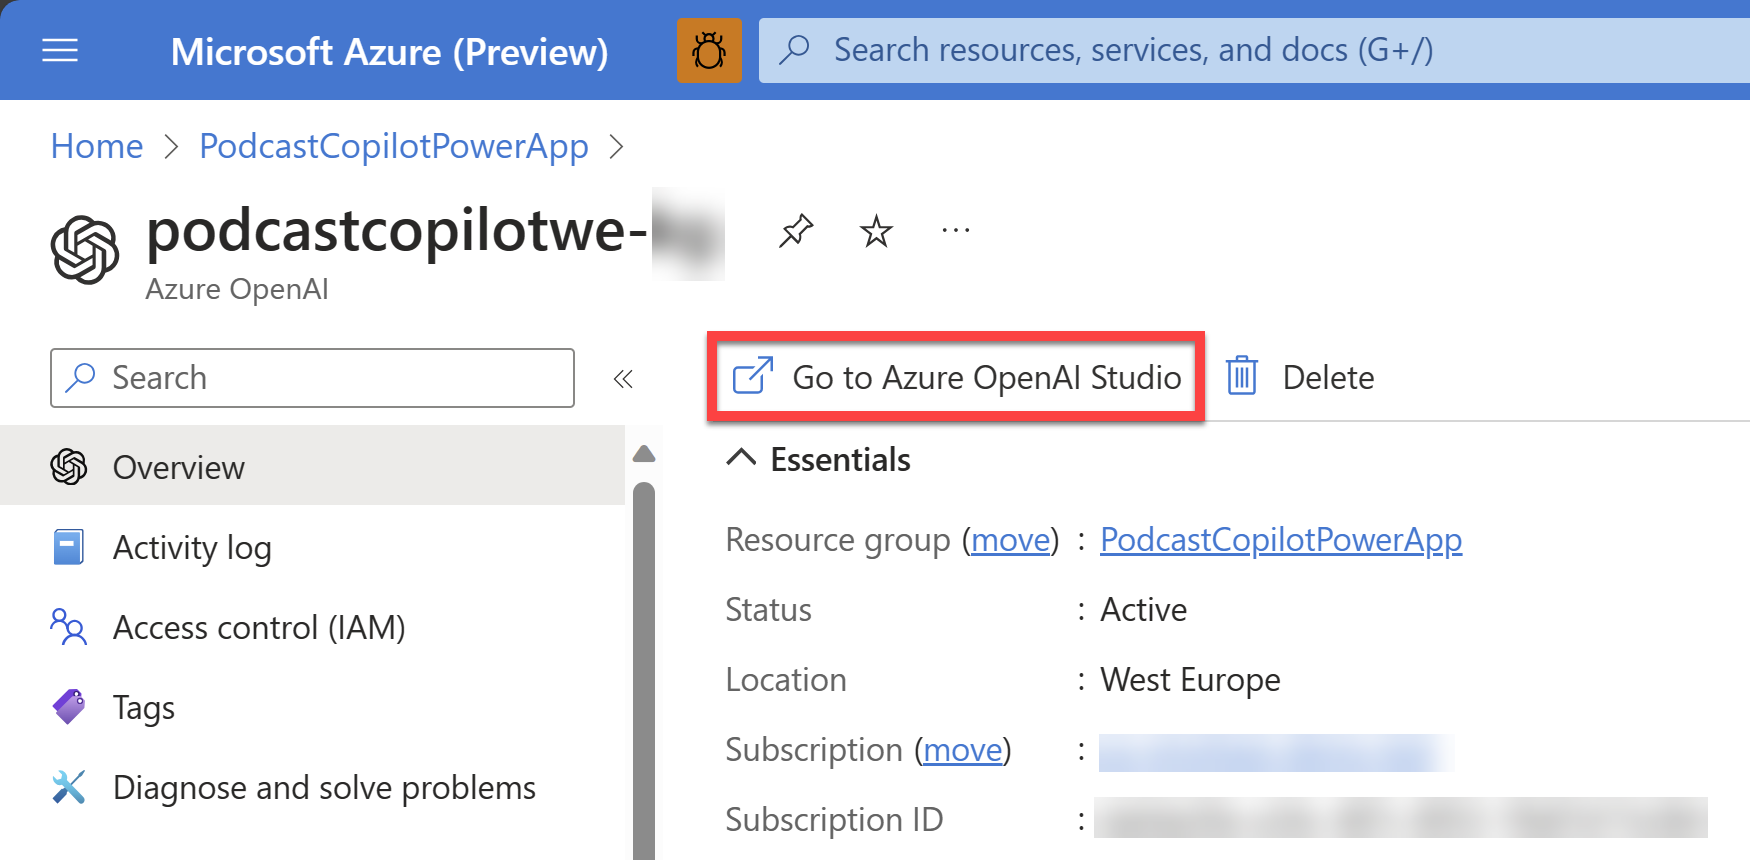
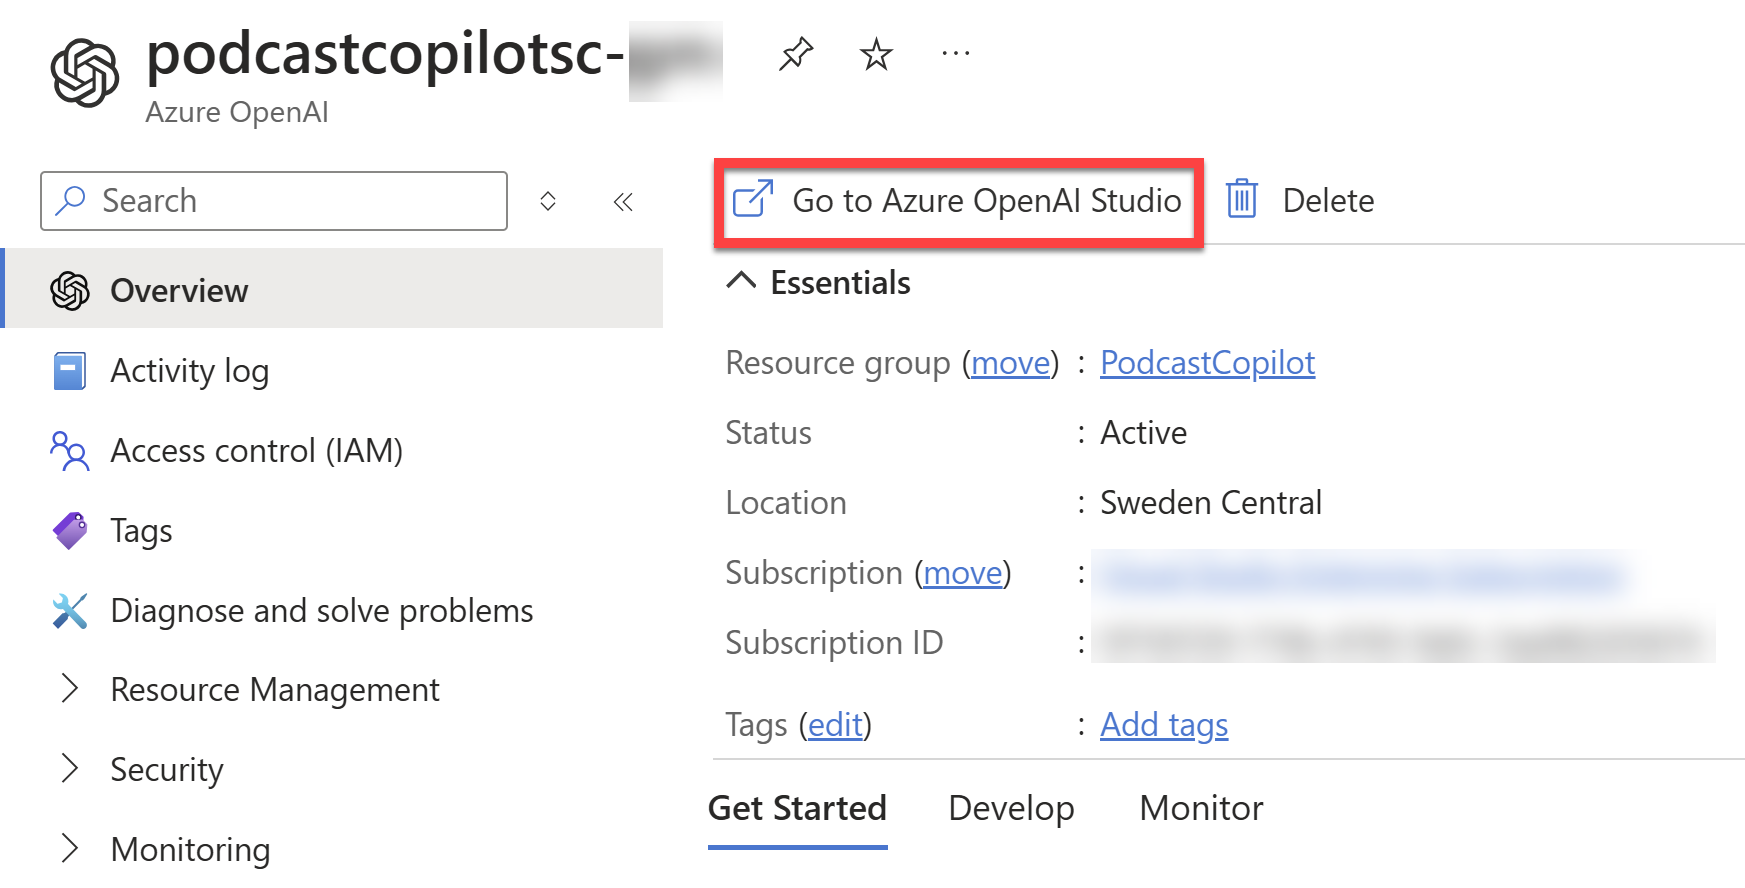
Lab1 - Updated

diff --git a/Workshops/PodcastCopilotPowerApp/Lab1/README.md b/Workshops/PodcastCopilotPowerApp/Lab1/README.md
@@ -17,7 +17,6 @@ Learn More: [What is Azure OpenAI Service? [Microsoft Learn]](https://aka.ms/Pow
 For this lab, make sure you have the following ready:
 
 - An active [Azure Subscription](https://azure.microsoft.com/en-us/free/)
-- Access to [Azure OpenAI Service](https://azure.microsoft.com/en-us/services/openai/)
 
 ### Video Overview of Lab:
 
@@ -27,7 +26,7 @@ For this lab, make sure you have the following ready:
 
 ## Instructions
 
-### Creating the Azure OpenAI Service Resources
+### Create an Azure OpenAI Service Resource
 
 1. Go to [portal.azure.com](https://aka.ms/PowerPodcast/AzurePortal) and login with your Azure account.
 
@@ -37,133 +36,123 @@ For this lab, make sure you have the following ready:
 
     ![Create Resource Group](assets/create-resource-group.png)
 
-1. Name it `PodcastCopilotPowerApp` and click on **Review + Create**. Then click on **Create**.
+1. Name it `PodcastCopilot` and click on **Review + Create**. Then click on **Create**.
 
-1. Create a new Azure OpenAI Service resource by clicking [here](https://ms.portal.azure.com/#create/Microsoft.CognitiveServicesOpenAI) and set the following parameters:
+1. Create a new **Azure OpenAI Service** resource by clicking [here](https://ms.portal.azure.com/#create/Microsoft.CognitiveServicesOpenAI) and set the following parameters:
 
-    - **Name**: `podcastcopilotwe-{your initials}` (e.g. `podcastcopilotwe-jd` to make it unique)
     - **Subscription**: Select your Azure subscription
-    - **Resource Group**: Select the resource group you created in the previous step
-    - **Location**: `West Europe`
+    - **Resource Group**: Select the **PodcastCopilot** resource group you created in the previous step
+    - **Region**: `Sweden Central`
+    - **Name**: `podcastcopilotsc-{your initials}` (e.g. `podcastcopilotwe-jd` to make it unique)
     - **Pricing Tier**: Select the `Standard S0` pricing tier
-
-    This resource will be used to access the Whisper and GPT-3.5 models.
 
     ![Create Azure OpenAI Service Resource](assets/create-azure-openai-service-resource.png)
 
-1. Click on **Next** until you get to the **Review + Submit** page and then click on **Create** to create the resource.
-
-1. Create another new Azure OpenAI Service resource by clicking [here](https://ms.portal.azure.com/#create/Microsoft.CognitiveServicesOpenAI) and set the following parameters:
-
-    - **Name**: `podcastcopilotsc-{your initials}` (e.g. `podcastcopilotsc-jd` to make it unique)
-    - **Subscription**: Select your Azure subscription
-    - **Resource Group**: Select the resource group you created in the previous step
-    - **Location**: `Sweden Central`
-    - **Pricing Tier**: Select the `Standard S0` pricing tier
-
-    This resource will be used to access the Dall.E 3 model.
+    > NOTE:
+    >
+    > The **Sweden Central** region is selected as it is (at the time of writing) the only region that supports GPT-4, Whisper, and Dall.E 3 models all together.
+    >
+    > If you are interested in which models are supported in which regions, you can check out the [Azure OpenAI Service standard deployment model availability](https://learn.microsoft.com/en-us/azure/ai-services/openai/concepts/models#standard-deployment-model-availability) page.
 
 1. Click on **Next** until you get to the **Review + Submit** page and then click on **Create** to create the resource.
 
-### Creating the Bing Search Resource in Azure
+### Create a Bing Search Resource in Azure
 
-1. Next we will create a Bing Search resource in Azure. Click this [link](https://ms.portal.azure.com/#create/Microsoft.BingSearch) and set the following parameters:
+1. Next we will create a **Bing Search** resource in Azure. Click this [link](https://ms.portal.azure.com/#create/Microsoft.BingSearch) and set the following parameters:
 
-    - **Name**: `podcastcopilotbing-{your initials}` (e.g. `podcastcopilotbing-jd` to make it unique)
     - **Subscription**: Select your Azure subscription
-    - **Resource Group**: Select the resource group you created in the previous step
+    - **Resource Group**: Select the **PodcastCopilot** resource group you created in a previous step
+    - **Name**: `podcastcopilotbing-{your initials}` (e.g. `podcastcopilotbing-jd` to make it unique)    
     - **Region**: `Global`
     - **Pricing Tier**: Select the `F1` pricing tier
 
-1. Read the **Terms** and **Notice** and select the checkbox to agree to them.
+1. Read the **Terms** and **Notices** and select the checkbox to agree to them.
 
     ![Terms confirmation for Bing Search](assets/bing-search-terms.png)
 
 1. Click on **Review + Create** and then **Create** to create the resource.
 
-1. Open up your `PodcastCopilotPowerApp` resource group in the Azure portal.
+1. Open up your `PodcastCopilot` resource group in the Azure portal.
 
 1. Select the `podcastcopilotbing-{your initials}` resource.
 
-1. Select **Keys and Endpoint** on the left menu and note down the **Key 1** value somewhere safe.
+1. Expand the **Resource Management** tab on the left-hand side, select **Keys and Endpoint** and note down the **Key 1** value somewhere safe.
 
     ![Bing Search Key](assets/bing-search-key.png)
 
-### Creating model deployments in Azure OpenAI Studio
+### Create model deployments in Azure OpenAI Studio
 
-1. Open up your `PodcastCopilotPowerApp` resource group in the Azure portal.
+1. Open up your **PodcastCopilot** resource group in the Azure portal.
 
-1. Select the `podcastcopilotwe-{your initials}` resource.
+1. Select the **podcastcopilotsc-{your initials}** resource.
 
 1. On the top menu, click on **Go to Azure OpenAI Studio**.
 
     ![Go to Azure OpenAI Studio](assets/go-to-azure-openai-studio.png)
 
+    > NOTE:
+    >
+    > In Azure OpenAI Studio, you may see the following banners alerting you to the studio's new look. Select **Explore the new experience** to continue in the updated studio.
+    >
+    > ![Azure OpenAI Studio New Look Banner 1](assets/azure-openai-studio-new-look-banner-1.png)
+    >
+    > ![Azure OpenAI Studio New Look Banner 2](assets/azure-openai-studio-new-look-banner-2.png)
+    >
+    > If you don't see these banners, then you're likely already in the updated studio.
+
 1. In the Azure OpenAI Studio, click on **Deployments** on the left menu.
 
-1. Click on **+ Create New Deployment** and set the following parameters:
+1. Select **+ Deploy model** > **Deploy base model**.
 
-    - **Select a model**: `GPT-35-Turbo`
+1. In the **Select a model** window, search for and select `gpt-4o-mini`.
+
+    Select **Confirm**.
+
+    ![Select GPT-4o-mini model](assets/select-gpt-4o-mini-model.png)
+
+1. In the **Deploy model gpt-4o-mini** window, set the following parameters:
+
+    - **Deployment name**: `gpt4omini`
     - **Model version**: `Auto-update to default`
-    - **Deployment name**: `gpt35turbo`
+    - **Deployment type**: `Global Standard`
 
-    Click **Create** to create the deployment.
+    > NOTE:
+    >
+    > Learn more about Azure OpenAI deployment types [here](https://learn.microsoft.com/en-us/azure/ai-services/openai/how-to/deployment-types)
 
-    ![Create GPT-3.5 Turbo Deployment](assets/create-gpt35turbo-deployment.png)
+    Select **Deploy** to create the **gpt-4o-mini** deployment.
 
-1. Click on **+ Create New Deployment** again and set the following parameters:
+1. Now you're going to create a deployment for **Whisper**.
 
-    - **Select a model**: `whisper`
-    - **Model version**: `Auto-update to default`
-    - **Deployment name**: `whisper`
+    * Select **Deployments** on the left menu.
+    * Select **+ Deploy model** > **Deploy base model**.
+    * Search for and select `whisper` and then click **Confirm**.
+    * Set the following parameters:
+        - **Deployment name**: `whisper`
+        - **Model version**: `Auto-update to default`
+        - **Deployment type**: `Standard`
+    * Select **Deploy** to create the **whisper** deployment.
 
-    Click **Create** to create the deployment.
+1. Now you're going to create a deployment for **DaLL-E**.
 
-1. Select the **gpt35turbo** deployment and click on **Open in Playground**.
+    * Select **Deployments** on the left menu.
+    * Select **+ Deploy model** > **Deploy base model**.
+    * Search for and select `dall-e-3` and then click **Confirm**.
+    * Set the following parameters:
+        - **Deployment name**: `dalle3`
+        - **Model version**: `Auto-update to default`
+        - **Deployment type**: `Standard`
+    * Select **Deploy** to create the **dall-e-3** deployment.
 
-    ![Open GPT-3.5 Turbo Deployment in Playground](assets/open-gpt35turbo-deployment-in-playground.png)
+1. On the **dalle3** deployment details page, select **Open in Playground**.
 
-1. In the playground, click on **View Code** and note down the following somewhere safe:
+    ![Open DaLL-E 3 Deployment in Playground](assets/open-dalle3-deployment-in-playground.png)
 
-    - **Deployment Name**: `gpt35turbo`
-    - **Endpoint**: `https://podcastcopilotwe-{your initials}.openai.azure.com/`
-    - **Key**: `xxxxxxxxxxxxxxxxxxxxxxxxxxxxxxxx`
+1. In the playground, click on **View Code** and copy the **Endpoint** value and note it down somewhere safe.
 
-    ![GPT-3.5 Turbo Playground endpoint and key](assets/gpt35turbo-playground-endpoint-and-key.png)
+    ![DaLL-E 3 Playground Endpoint](assets/dalle3-playground-endpoint.png)
 
-1. Once complete, do the same for the `whisper` deployment.
-
-1. Click on **Deployments** on the left menu and select the **whisper** deployment. Then click on **Open in Playground**.
-
-1. Scroll down to the **Next Steps** section, select the **podcastcopilotwe-{your initials}** resource and then note down the following somewhere safe:
-
-    - **Deployment Name**: `whisper`
-    - **Endpoint**: `https://podcastcopilotwe-{your initials}.openai.azure.com/`
-    - **Resource Key**: `xxxxxxxxxxxxxxxxxxxxxxxxxxxxxxxx`
-
-1. Now in the top right corner, click on your name and then under `Current Resource`; select **Switch**.
-
-    ![Switch Azure OpenAI Service Resource](assets/switch-azure-openai-service-resource.png)
-
-1. Select the **podcastcopilotsc-{your initials}** resource and then select **Use Resource**.
-
-    ![Select Azure OpenAI Service Resource](assets/select-azure-openai-service-resource.png)
-
-1. Click on **Deployments** on the left menu and then select **Create New Deployment** and set the following parameters:
-
-    - **Select a model**: `dall-e-3`
-    - **Model version**: `Auto-update to default`
-    - **Deployment name**: `dalle3`
-
-    Click **Create** to create the deployment.
-
-1. Select the **dalle3** deployment and click on **Open in Playground**.
-
-1. Select **View Code** and note down the following somewhere safe:
-
-    - **Deployment Name**: `dalle3`
-    - **Endpoint**: `https://podcastcopilotsc-{your initials}.openai.azure.com/`
-    - **Key**: `xxxxxxxxxxxxxxxxxxxxxxxxxxxxxxxx`
+    This endpoint will be used in the next lab to connect to all your model deployments.
 
 ### Uploading Podcast Snippet to Azure Blob Storage
 
@@ -178,9 +167,11 @@ We'll be using Azure Blob Storage to store the podcast snippet audio file. This 
 1. Navigate to [Create a storage account](https://ms.portal.azure.com/#create/Microsoft.StorageAccount-ARM) and set the following parameters:
 
     - **Subscription**: Select your Azure subscription
-    - **Resource Group**: Select the **PodcastCopilotPowerApp** resource group
+    - **Resource Group**: Select the **PodcastCopilot** resource group
     - **Storage account name**: `podcaststorage{your initials}` (e.g. `podcaststoragejd` to make it unique)
-    - **Location**: `East US`
+    - **Region**: `East US`
+    - **Primary service**: `Azure Blob Storage or Azure Data Lake Storage Gen 2`
+    - **Primary workload**: `Other`
     - **Performance**: `Standard`
     - **Redundancy**: `Geo-redundant storage (GRS)`
     - Ensure that **Make read access to data available in the event of regional unavailability** is selected`
@@ -191,7 +182,7 @@ We'll be using Azure Blob Storage to store the podcast snippet audio file. This 
 
     ![Go to Storage Account resource](assets/go-to-storage-account.png)
 
-1. On the left-hand side panel, scroll down to the **Settings** section and click on **Configuration**.
+1. On the left-hand side panel, scroll down and expand the **Settings** section and click on **Configuration**.
 
 1. Then look for the **Allow Blob anonymous access** setting and set it to `Enabled`.
 
